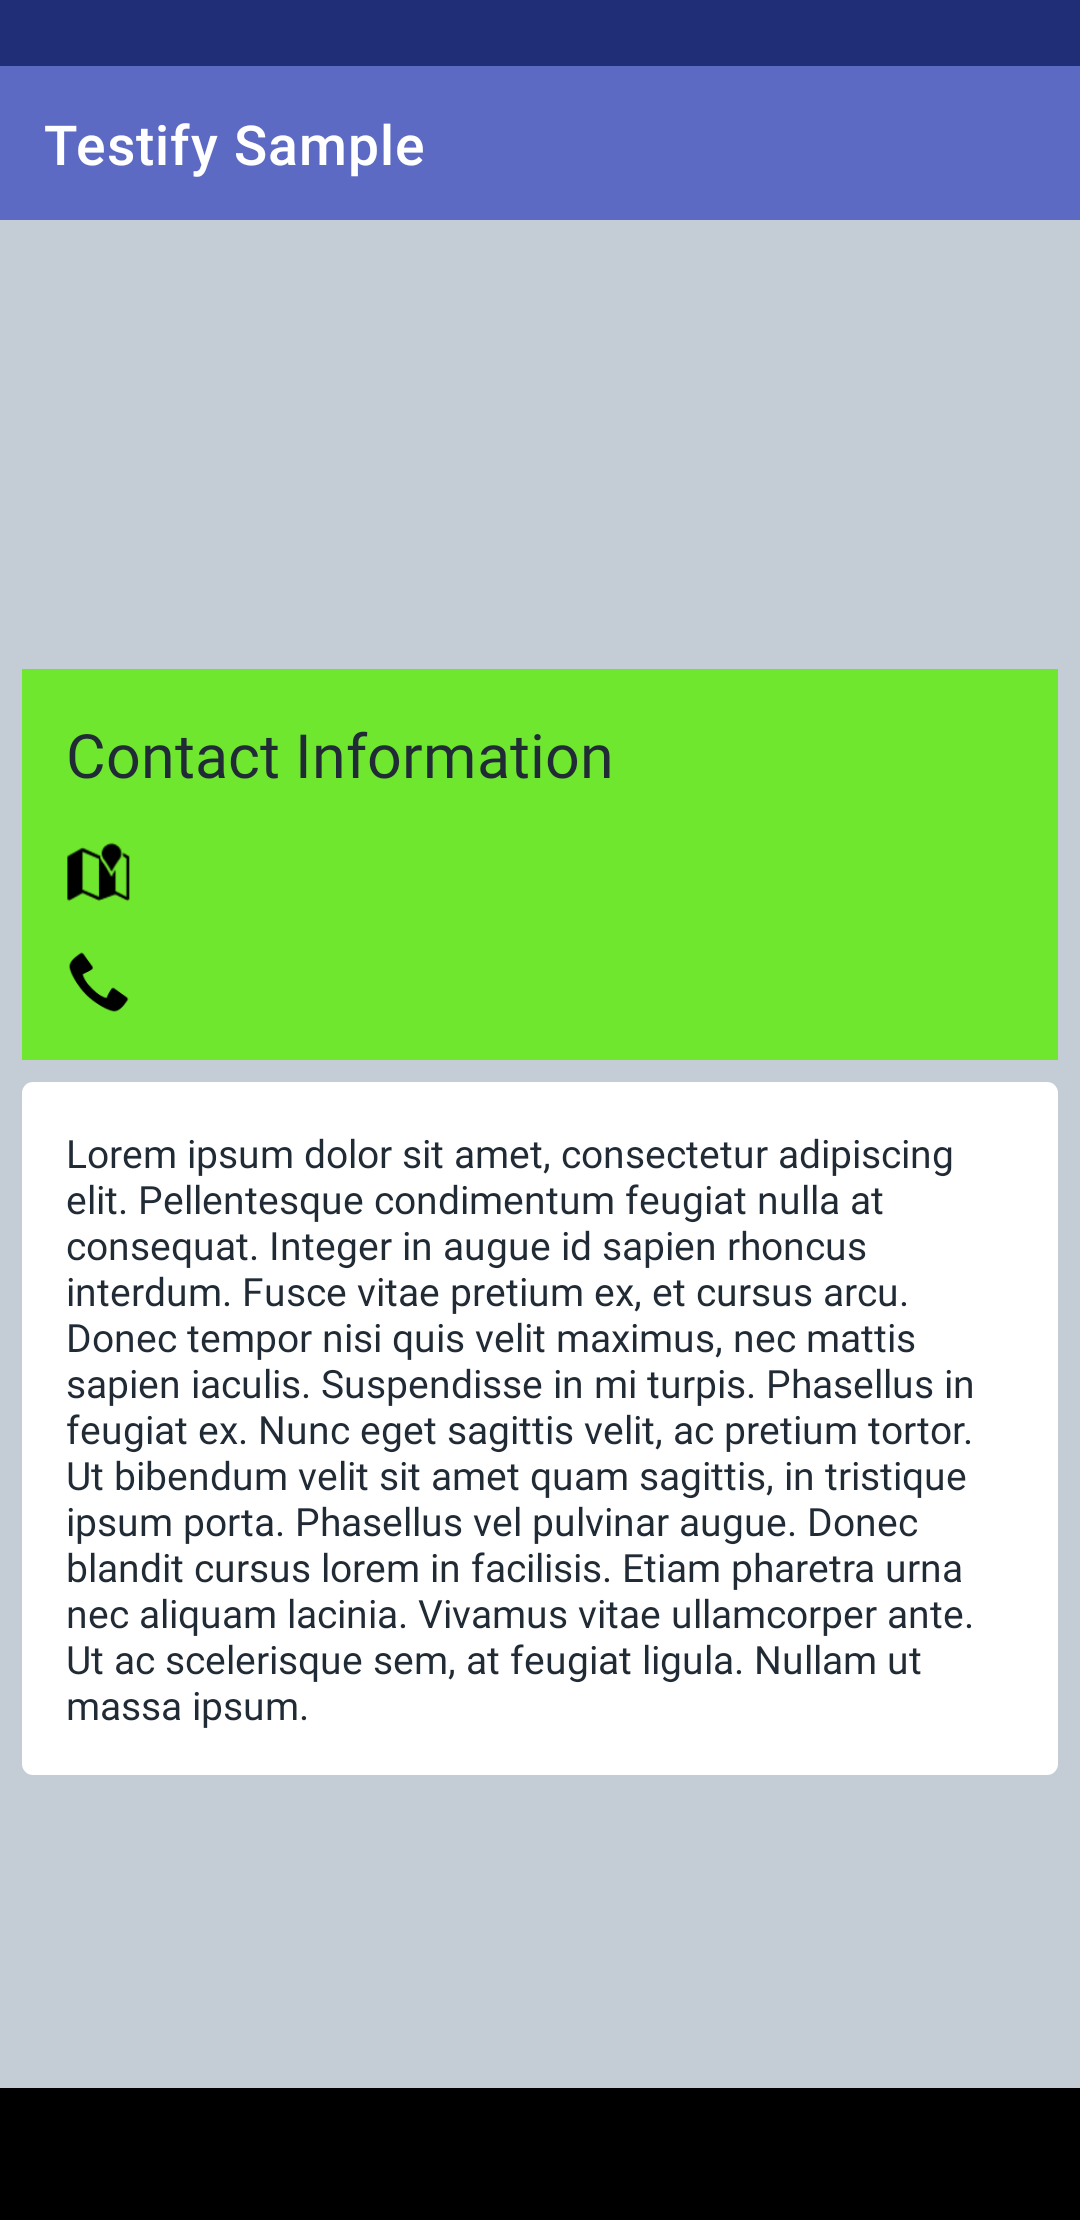
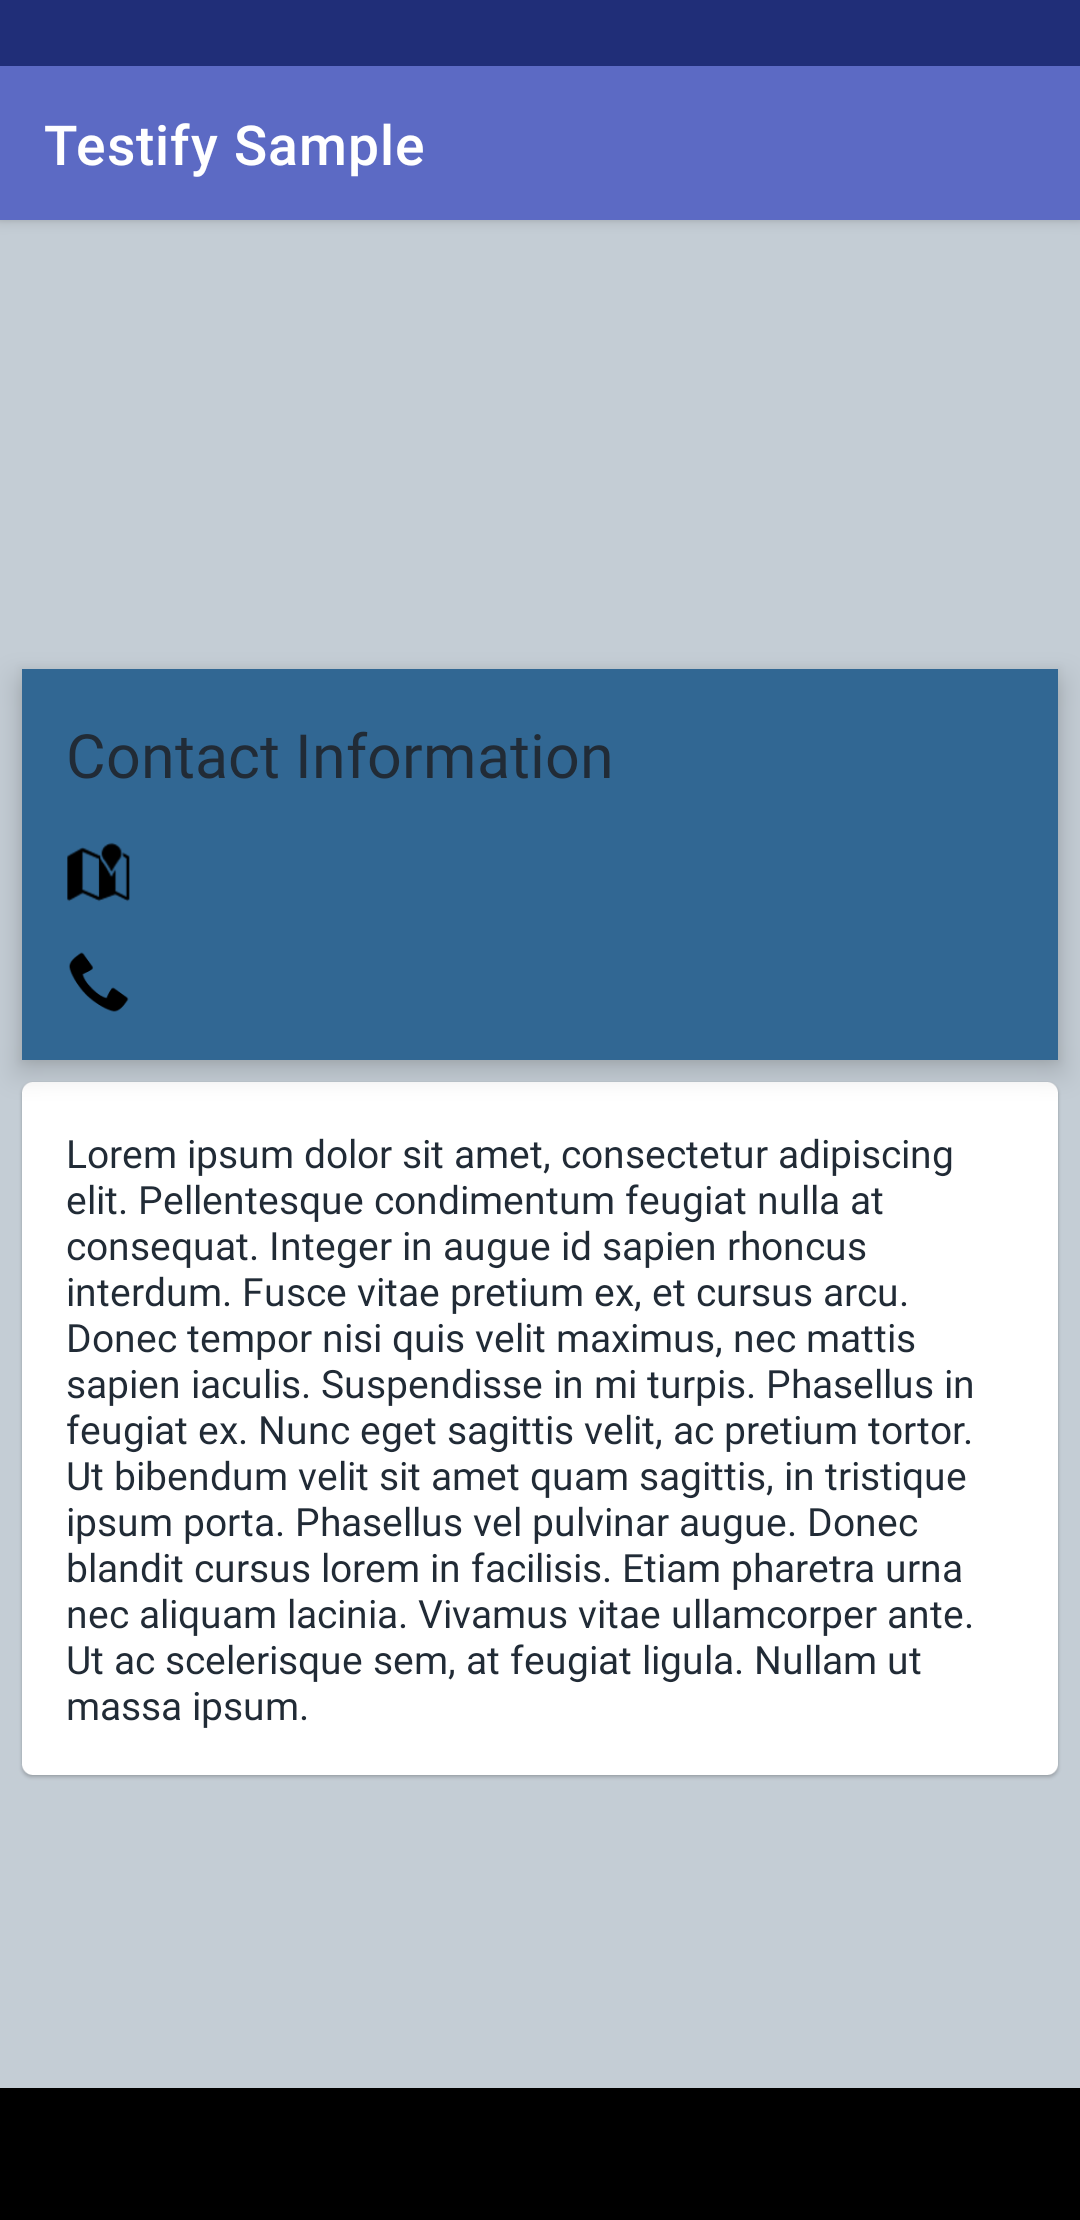
Update Sample to demonstrate combining exactness with exclusion rects

Changed region(s): [[0.0, 0.2797, 1.0, 0.4973]]

diff --git a/Sample/src/androidTest/java/com/shopify/testify/sample/ScreenshotRuleExampleTests.kt b/Sample/src/androidTest/java/com/shopify/testify/sample/ScreenshotRuleExampleTests.kt
@@ -290,7 +290,10 @@ class ScreenshotRuleExampleTests {
     @ScreenshotInstrumentation
     @Test
     fun exclusions() {
+        TestifyFeatures.PixelCopyCapture.setEnabled(true)
+        TestifyFeatures.GenerateDiffs.setEnabled(true)
         rule
+            .setExactness(0.9f)
             .setViewModifications {
                 val r = Integer.toHexString(Random.nextInt(0, 255)).padStart(2, '0')
                 val g = Integer.toHexString(Random.nextInt(0, 255)).padStart(2, '0')
